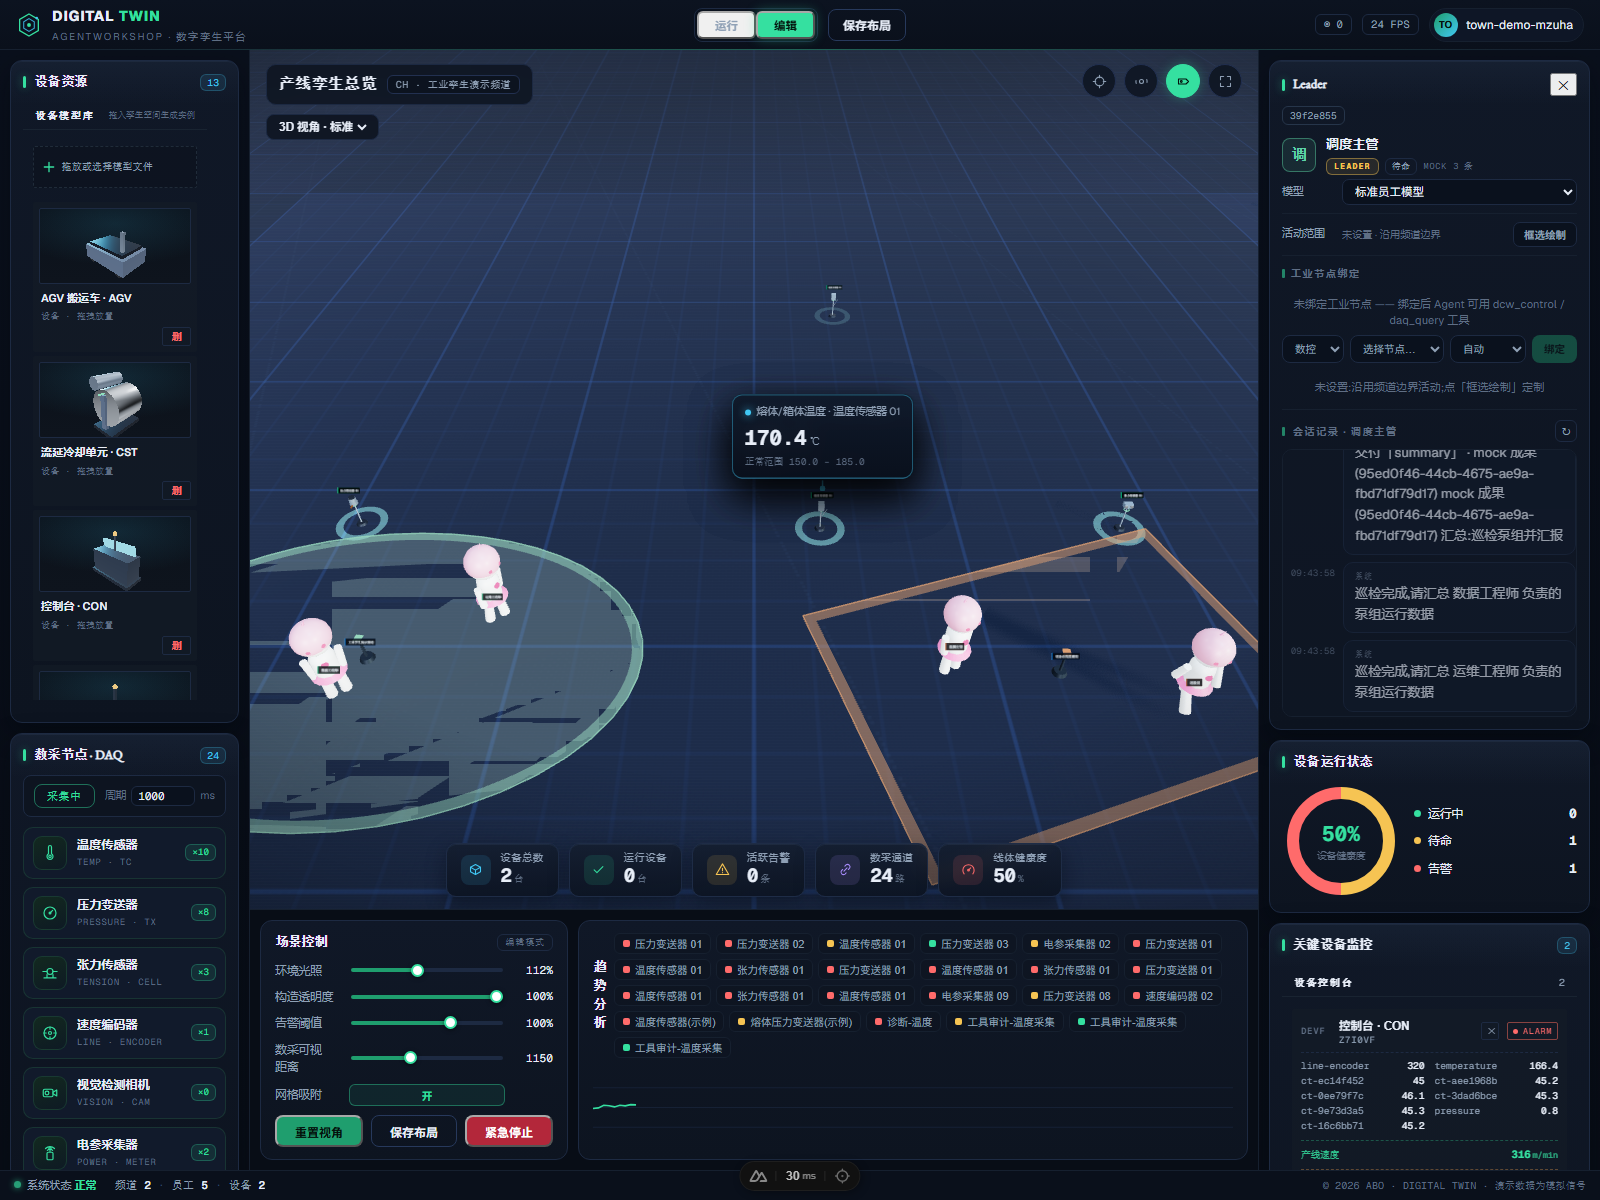
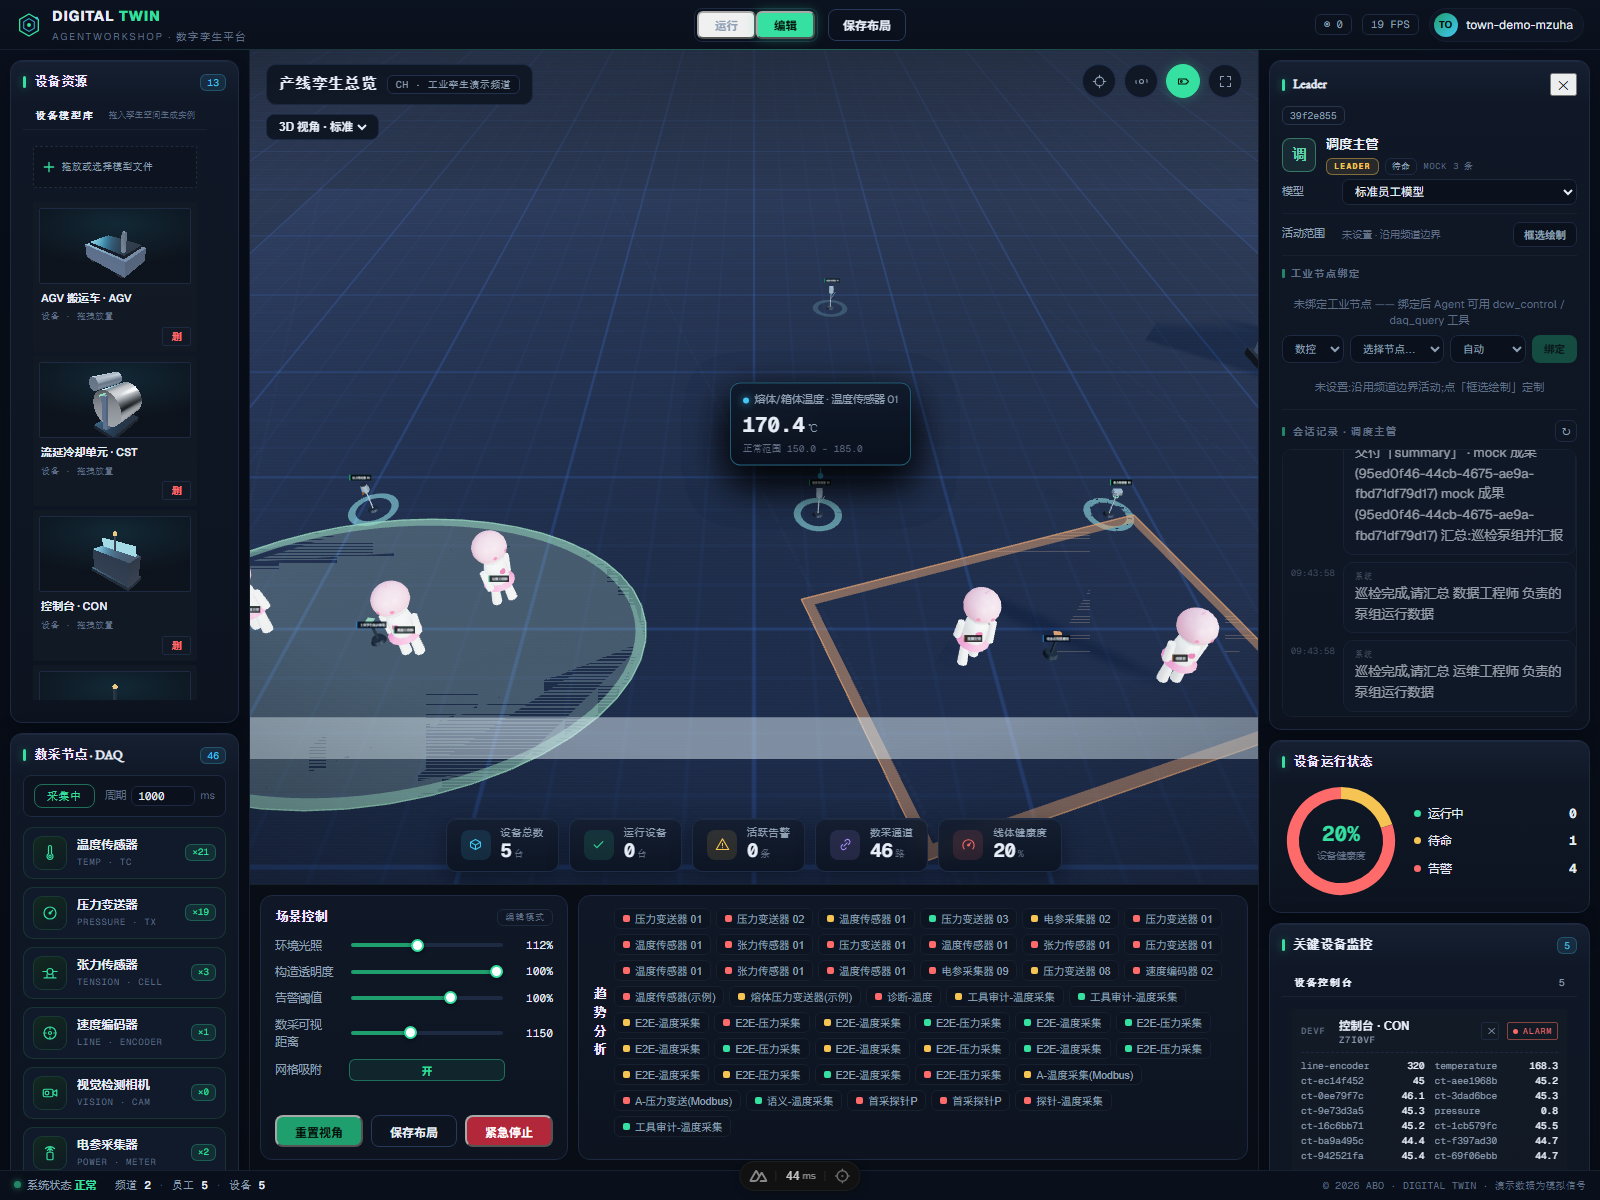
feat(agents): omp 执行链工业上下文加固 —— 调控作业环/报警透出/line_id 过滤
- contextPrefix 新增工业调控作业环注入(有绑定才注入,零硬编码):
  观察→理解→窗口内小步幅→执行→复测的调控纪律随每回合进入 omp prompt
- 工况简报透出当前报警的绑定数采节点(越限即报警的实时优先感知)
- daq_query 落实工具契约声明的 line_id 过滤(按节点归属产线收敛,冲突显式报错)
- 新增 _dbg-context-inject-audit 三层探针:contextPrefix 组装/工具语义/omp 活体引用
- 修正审计脚本过期断言(语义卡窗口 [176, 188] 方括号格式)

diff --git a/server/services/workshop/agents/industrial-context.ts b/server/services/workshop/agents/industrial-context.ts
@@ -147,8 +147,45 @@ export function buildIndustrialContext(agentId: string): string {
       if (desc) twinNames.add(desc)
     }
     if (twinNames.size > 0) lines.push(`- 关联设备孪生: ${Array.from(twinNames).join(' | ')}`)
+    // 当前报警透出(只报本 Agent 绑定的数采节点):越限即报警是工况里最需要
+    // Agent 优先感知的事实 —— 不注入的话,Agent 只能靠 daq_query 事后发现
+    const alarms = daqIds
+      .map(id => getDaqNodeRepo().byId(id))
+      .filter(n => n && n.lineId === lineId && n.state === 'alarm')
+    if (alarms.length > 0) {
+      lines.push(`- **当前报警**: ${alarms.map(n => `${n.name} 实时 ${n.value ?? '?'}${n.unit} 处于报警态(越量程或越配方监控窗口)`)},应优先判读(设定-响应滞后 vs 真实异常)并处置`)
+    }
     sections.push(lines.join('\n'))
   }
   if (sections.length === 0) return ''
   return `## 产线工况简报(实时;每次回合自动注入)\n${sections.join('\n\n')}`
+}
+
+/**
+ * 工业调控作业环(prompt 层纪律注入;有工业绑定才注入,零硬编码)。
+ * 与节点语义卡(my_industrial_nodes 结果)互补:语义卡在工具调用后可见,
+ * 作业环保证 Agent 在**任何回合开头**就知道调控方法论 —— 先观察、窗口内小步幅、
+ * 等待响应、复测收敛,而不是拿到 dcw_control 就盲写。
+ */
+export function industrialLoopGuide(agentId: string): string {
+  const bindings = getAgentNodeBindingRepo().byAgent(agentId)
+  if (bindings.length === 0) return ''
+  const hasDcw = bindings.some(b => b.kind === 'dcw')
+  const hasManual = bindings.some(b => b.kind === 'dcw' && b.mode === 'manual')
+  const steps: string[] = [
+    '1. 观察:daq_query 获取绑定节点的真实时序数据(支持按产品/配方/时间窗过滤),结合返回的工况判读理解当前状态。',
+    '2. 理解:my_industrial_nodes 读取节点语义卡 —— 物理量含义/单位/安全量程/活动配方工艺窗口/单次调幅步进,以及量测数据与工艺质量的关联。',
+  ]
+  if (hasDcw) {
+    steps.push('3. 决策:目标值必须落在「安全量程 ∩ 活动配方工艺窗口」内,越窗下发会被联锁拒绝;优先小步幅(≤量程 2%)、单向逼近目标,避免往复震荡。')
+    steps.push('4. 执行与验证:dcw_control 下发后等待工艺响应(热惯性/传动惯量),勿连续大幅调整;再 daq_query 复测确认实际值向目标收敛,收敛异常时分析根因或上报,而非盲目加码。')
+  }
+  else {
+    steps.push('3. 判读:你是量测侧 —— 数据越过配方监控窗口会触发节点报警与孪生告警;判读时区分「同线数控设定-响应滞后」与「真实过程异常」,结论引用具体数值与时间窗。')
+  }
+  if (hasManual) {
+    steps.push('5. 权限边界:手动确认模式的节点,下发前必须说明理由并等待用户批准(用户备注会随结果返回,请响应其关切);自动模式节点直接执行,但同样受联锁约束。')
+  }
+  steps.push('6. 数值口径:工具返回的采集/设定值均为经标定钩子处理后的真实物理量纲;引用数值时带上单位与时间,便于人工复核。')
+  return `## 工业调控作业环(你的节点操作方法论,每回合生效)\n${steps.join('\n')}`
 }

diff --git a/server/services/workshop/agents/industrial-tools.ts b/server/services/workshop/agents/industrial-tools.ts
@@ -133,7 +133,26 @@ export async function toolDaqQuery(agentId: string, args: {
   if (wanted && !daqBindings.some(b => b.nodeId === wanted)) {
     return { text: `无权查询节点 ${wanted}。你有权访问的数采节点:${daqBindings.map(b => b.nodeId).join(', ')}`, isError: true }
   }
-  const targets = wanted ? [wanted] : daqBindings.map(b => b.nodeId)
+  // line_id 过滤(工具契约声明了该参数):按节点归属产线收敛目标集;
+  // 权限仍以绑定为先 —— line_id 只能缩小范围,不能放大
+  const lineFilter = args.line_id ? String(args.line_id).trim() : ''
+  const lineOf = (id: string): string => getDaqNodeRepo().byId(id)?.lineId ?? ''
+  if (lineFilter && wanted && lineOf(wanted) !== lineFilter) {
+    return {
+      text: `节点 ${wanted} 不属于产线 ${lineFilter}(实际归属:${lineOf(wanted) || '未分配'}),line_id 与 node_id 过滤冲突。`,
+      isError: true,
+    }
+  }
+  let targets = wanted ? [wanted] : daqBindings.map(b => b.nodeId)
+  if (lineFilter && !wanted) {
+    const onLine = targets.filter(id => lineOf(id) === lineFilter)
+    if (onLine.length === 0) {
+      return {
+        text: `你绑定的数采节点中没有归属产线 ${lineFilter} 的(各节点归属:${daqBindings.map(b => `${b.nodeId}=${lineOf(b.nodeId) || '未分配'}`).join('; ')})。`,
+      }
+    }
+    targets = onLine
+  }
 
   const toMs = Number(args.to_ms) || Date.now()
   const fromMs = Number(args.from_ms) || toMs - (Number(args.last_minutes) || 30) * 60_000
@@ -201,8 +220,8 @@ export async function toolDaqQuery(agentId: string, args: {
       sections.push(`■ ${node.name}:查询失败 ${err instanceof Error ? err.message : String(err)}`)
     }
   }
-  const prov = args.product_id || args.recipe_id
-    ? `\n(已按${args.product_id ? ` 产品 ${args.product_id}` : ''}${args.recipe_id ? ` 配方 ${args.recipe_id}` : ''}过滤 —— 仅活动批次窗口内逐样本打标的数据)`
+  const prov = (args.product_id || args.recipe_id || lineFilter)
+    ? `\n(过滤条件:${lineFilter ? ` 产线 ${lineFilter}` : ''}${args.product_id ? ` 产品 ${args.product_id}` : ''}${args.recipe_id ? ` 配方 ${args.recipe_id}` : ''}${(args.product_id || args.recipe_id) ? ' —— 产品/配方过滤基于活动批次窗口内逐样本打标' : ''})`
     : ''
   return { text: `数采数据查询结果(${targets.length} 个节点):\n\n${sections.join('\n\n')}${prov}\n\n数值均为经标定钩子处理后的真实物理量纲;调整工艺前请结合 my_industrial_nodes 的节点判读方法与操作守则。` }
 }

diff --git a/server/services/workshop/agents/omp-agent.ts b/server/services/workshop/agents/omp-agent.ts
@@ -49,7 +49,7 @@ import {
   renderPrompt,
 } from '../prompts/loader'
 import { toolDaqQuery, toolDcwControl, toolMyIndustrialNodes } from './industrial-tools'
-import { buildIndustrialContext } from './industrial-context'
+import { buildIndustrialContext, industrialLoopGuide } from './industrial-context'
 import { extractTaskMode } from '../runtime/execution-mode'
 
 // ===== 配置 =====
@@ -309,6 +309,12 @@ export class OmpRpcAgentImpl implements AgentInterface {
     const industrial = buildIndustrialContext(this.selfAgentId)
     if (industrial) {
       parts.push(industrial, ``)
+    }
+    // 工业调控作业环(方法论层):有绑定节点才注入 —— 保证 Agent 在拿到任何
+    // 工具之前就理解「观察→理解→窗口内小步幅→执行→复测」的调控纪律。
+    const loop = industrialLoopGuide(this.selfAgentId)
+    if (loop) {
+      parts.push(loop, ``)
     }
     if (roster) {
       parts.push(roster, ``)
